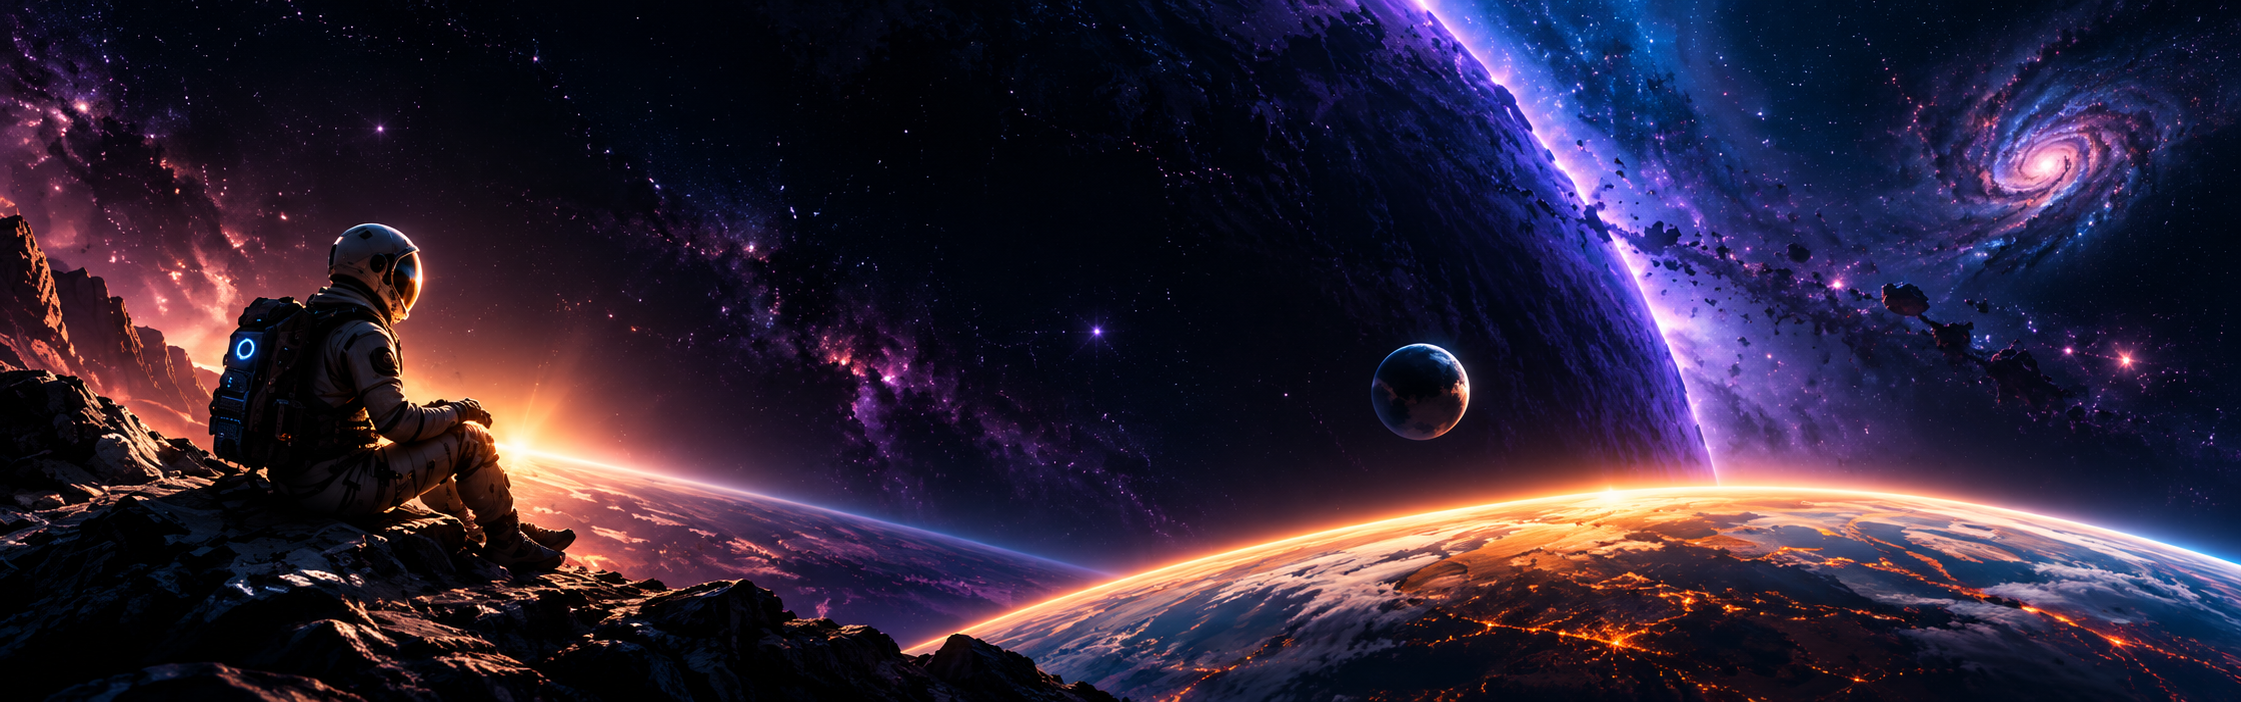
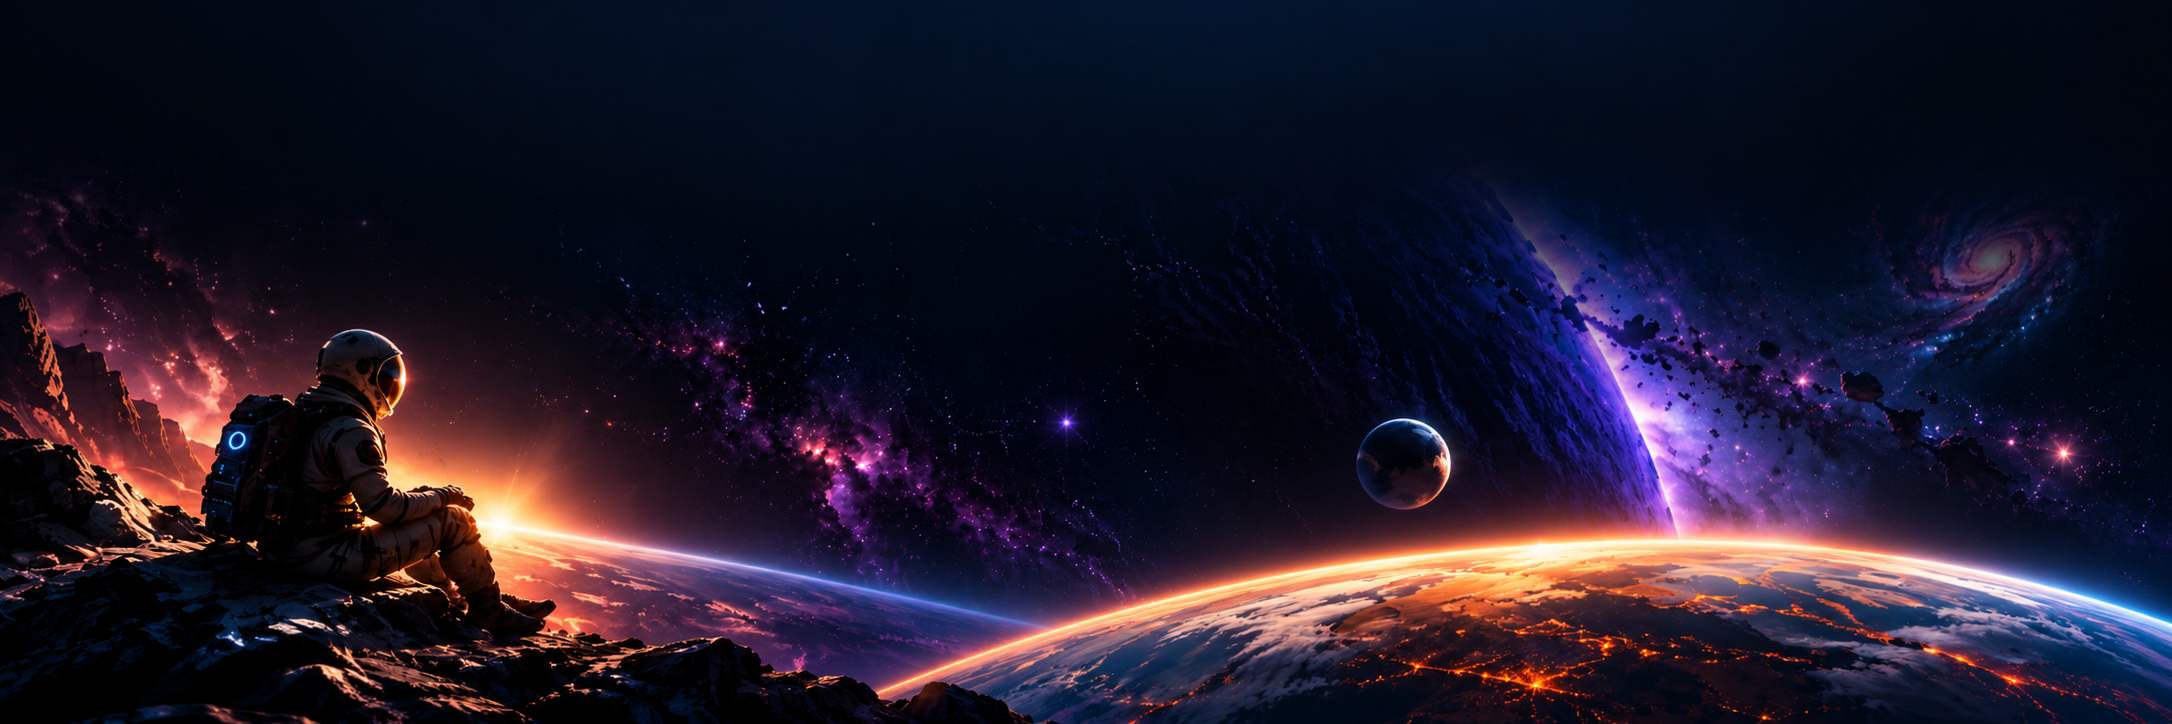
fixing colors in moviesGenresSection

diff --git a/sass/components/_moviesGenres.scss b/sass/components/_moviesGenres.scss
@@ -185,7 +185,7 @@ $horror: #ff382f;
             gap: 20px;
             overflow-x: auto;
             scrollbar-width: none;
-            padding: 28px;
+            padding: 50px;
             padding-left: 15px;
             .movie {
               position: relative;
@@ -348,6 +348,112 @@ $horror: #ff382f;
             }
             &.next {
               right: 6px;
+            }
+          }
+        }
+      }
+
+      &.genre-movies {
+        --Color: #ffc247;
+        .head {
+          .left {
+            .title {
+              span {
+                color: var(--Color);
+              }
+            }
+          }
+          .line {
+            background: var(--Color);
+            box-shadow: 0 0 10px var(--Color);
+          }
+        }
+
+        .body {
+          .wrap {
+            .movies {
+              .movie {
+                .movie-inner {
+                  .face {
+                    .genres {
+                      color: color-mix(in oklab, var(--Color) 50%, white);
+                    }
+                    .overview {
+                      color: #c3cfe3;
+                    }
+                    .year {
+                      color: #8a9bb5;
+                    }
+                    &.front {
+                      .info {
+                        background: linear-gradient(transparent, color-mix(in srgb, var(--Color) 40%, transparent) 25%);
+                      }
+                    }
+                    &.back {
+                      background:
+                        radial-gradient(circle at 100% 0, color-mix(in srgb, var(--Color) 35%, transparent), transparent 60%),
+                        linear-gradient(160deg, color-mix(in srgb, var(--Color) 30%, #0e1a3a), color-mix(in srgb, var(--Color) 10%, #050816));
+                      .view-detailes {
+                        background:
+                          radial-gradient(120% 90% at 100% 0%, color-mix(in oklab, var(--Color) 20%, transparent), transparent 60%),
+                          linear-gradient(
+                            135deg,
+                            color-mix(in oklab, var(--Color) 18%, rgba(12, 28, 49, 0.96)),
+                            color-mix(in oklab, var(--Color) 5%, rgba(7, 12, 28, 0.98))
+                          );
+                        border: 1px solid color-mix(in oklab, var(--Color) 50%, transparent);
+                        box-shadow:
+                          0 3px 12px rgba(0, 0, 0, 0.25),
+                          0 0 16px color-mix(in oklab, var(--Color) 20%, transparent),
+                          inset 0 1px 0 color-mix(in oklab, var(--Color) 25%, rgba(255, 255, 255, 0.05));
+                        i {
+                          color: var(--Color);
+                        }
+
+                        &:hover {
+                          background:
+                            radial-gradient(120% 90% at 100% 0%, color-mix(in oklab, var(--Color) 35%, transparent), transparent 65%),
+                            linear-gradient(
+                              135deg,
+                              color-mix(in oklab, var(--Color) 30%, rgba(13, 51, 78, 0.98)),
+                              color-mix(in oklab, var(--Color) 10%, rgba(13, 25, 50, 0.98))
+                            );
+                          border-color: color-mix(in oklab, var(--Color) 90%, transparent);
+                          box-shadow:
+                            0 5px 18px rgba(0, 0, 0, 0.3),
+                            0 0 22px color-mix(in oklab, var(--Color) 35%, transparent),
+                            inset 0 0 14px color-mix(in oklab, var(--Color) 12%, transparent);
+                          i {
+                            color: color-mix(in oklab, var(--Color) 80%, transparent);
+                          }
+                        }
+                      }
+                    }
+                  }
+                }
+                &:hover {
+                  .movie-inner {
+                    .face {
+                      border-color: color-mix(in oklab, var(--Color) 80%, transparent);
+                      box-shadow:
+                        0 14px 30px #00000099,
+                        0 0 22px color-mix(in oklab, var(--Color) 40%, transparent),
+                        0 0 48px color-mix(in oklab, var(--Color) 15%, transparent);
+                    }
+                  }
+                }
+              }
+            }
+            .arrow {
+              border: 1px solid var(--Color);
+              border-radius: 50%;
+              background: #050816;
+              color: var(--Color);
+              &:hover {
+                background: var(--Color);
+                color: #050816;
+                box-shadow: 0 0 16px var(--Color);
+              }
             }
           }
         }

diff --git a/css/index.css b/css/index.css
@@ -5849,7 +5849,7 @@ header#Explore .content .planet:hover {
   gap: 20px;
   overflow-x: auto;
   scrollbar-width: none;
-  padding: 28px;
+  padding: 50px;
   padding-left: 15px;
 }
 #Movies .content .movies-section .body .wrap .movies .movie {
@@ -6021,6 +6021,62 @@ header#Explore .content .planet:hover {
 }
 #Movies .content .movies-section .body .wrap .arrow.next {
   right: 6px;
+}
+#Movies .content .movies-section.genre-movies {
+  --Color: #ffc247;
+}
+#Movies .content .movies-section.genre-movies .head .left .title span {
+  color: var(--Color);
+}
+#Movies .content .movies-section.genre-movies .head .line {
+  background: var(--Color);
+  box-shadow: 0 0 10px var(--Color);
+}
+#Movies .content .movies-section.genre-movies .body .wrap .movies .movie .movie-inner .face .genres {
+  color: color-mix(in oklab, var(--Color) 50%, white);
+}
+#Movies .content .movies-section.genre-movies .body .wrap .movies .movie .movie-inner .face .overview {
+  color: #c3cfe3;
+}
+#Movies .content .movies-section.genre-movies .body .wrap .movies .movie .movie-inner .face .year {
+  color: #8a9bb5;
+}
+#Movies .content .movies-section.genre-movies .body .wrap .movies .movie .movie-inner .face.front .info {
+  background: linear-gradient(transparent, color-mix(in srgb, var(--Color) 40%, transparent) 25%);
+}
+#Movies .content .movies-section.genre-movies .body .wrap .movies .movie .movie-inner .face.back {
+  background: radial-gradient(circle at 100% 0, color-mix(in srgb, var(--Color) 35%, transparent), transparent 60%), linear-gradient(160deg, color-mix(in srgb, var(--Color) 30%, #0e1a3a), color-mix(in srgb, var(--Color) 10%, #050816));
+}
+#Movies .content .movies-section.genre-movies .body .wrap .movies .movie .movie-inner .face.back .view-detailes {
+  background: radial-gradient(120% 90% at 100% 0%, color-mix(in oklab, var(--Color) 20%, transparent), transparent 60%), linear-gradient(135deg, color-mix(in oklab, var(--Color) 18%, rgba(12, 28, 49, 0.96)), color-mix(in oklab, var(--Color) 5%, rgba(7, 12, 28, 0.98)));
+  border: 1px solid color-mix(in oklab, var(--Color) 50%, transparent);
+  box-shadow: 0 3px 12px rgba(0, 0, 0, 0.25), 0 0 16px color-mix(in oklab, var(--Color) 20%, transparent), inset 0 1px 0 color-mix(in oklab, var(--Color) 25%, rgba(255, 255, 255, 0.05));
+}
+#Movies .content .movies-section.genre-movies .body .wrap .movies .movie .movie-inner .face.back .view-detailes i {
+  color: var(--Color);
+}
+#Movies .content .movies-section.genre-movies .body .wrap .movies .movie .movie-inner .face.back .view-detailes:hover {
+  background: radial-gradient(120% 90% at 100% 0%, color-mix(in oklab, var(--Color) 35%, transparent), transparent 65%), linear-gradient(135deg, color-mix(in oklab, var(--Color) 30%, rgba(13, 51, 78, 0.98)), color-mix(in oklab, var(--Color) 10%, rgba(13, 25, 50, 0.98)));
+  border-color: color-mix(in oklab, var(--Color) 90%, transparent);
+  box-shadow: 0 5px 18px rgba(0, 0, 0, 0.3), 0 0 22px color-mix(in oklab, var(--Color) 35%, transparent), inset 0 0 14px color-mix(in oklab, var(--Color) 12%, transparent);
+}
+#Movies .content .movies-section.genre-movies .body .wrap .movies .movie .movie-inner .face.back .view-detailes:hover i {
+  color: color-mix(in oklab, var(--Color) 80%, transparent);
+}
+#Movies .content .movies-section.genre-movies .body .wrap .movies .movie:hover .movie-inner .face {
+  border-color: color-mix(in oklab, var(--Color) 80%, transparent);
+  box-shadow: 0 14px 30px rgba(0, 0, 0, 0.6), 0 0 22px color-mix(in oklab, var(--Color) 40%, transparent), 0 0 48px color-mix(in oklab, var(--Color) 15%, transparent);
+}
+#Movies .content .movies-section.genre-movies .body .wrap .arrow {
+  border: 1px solid var(--Color);
+  border-radius: 50%;
+  background: #050816;
+  color: var(--Color);
+}
+#Movies .content .movies-section.genre-movies .body .wrap .arrow:hover {
+  background: var(--Color);
+  color: #050816;
+  box-shadow: 0 0 16px var(--Color);
 }
 
 /*# sourceMappingURL=index.css.map */

diff --git a/js/pages/explore.js b/js/pages/explore.js
@@ -4,8 +4,8 @@ let planets = planetsContainer.querySelectorAll(".planet"),
   topMoviesContent = moviesSection.querySelector(".content .movies-section.top-rated-movies .body .movies"),
   genreMoviesContet = moviesSection.querySelector(".content .movies-section.genre-movies"),
   genre = genreMoviesContet.closest(".content").dataset.genre,
-  prevBtn = moviesSection.querySelector(".content .prev");
-nextBtn = moviesSection.querySelector(".content .next");
+  prevBtn = moviesSection.querySelector(".content .prev"),
+  nextBtn = moviesSection.querySelector(".content .next");
 function changePlanet(planet) {
   let activePlanet = planetsContainer.querySelector(".planet.active");
 
@@ -17,7 +17,7 @@ function changePlanet(planet) {
   planet.classList.add("active");
   setTimeout(() => {
     moviesSection.scrollIntoView({
-      top: moviesSection.clientHeight(),
+      top: moviesSection.clientHeight,
       behavior: "smooth",
     });
   }, 1000);
@@ -63,6 +63,7 @@ async function showTopMoviesExplore() {
 }
 
 async function showGenreMoviesExplore(genre = "action") {
+  changeColor(genre);
   if (genre == "horror") {
     genreMoviesContet.innerHTML = `
         <div class="head">
@@ -105,8 +106,8 @@ async function showGenreMoviesExplore(genre = "action") {
                     <img src="../images/moviesPageIcons/${genre.toLocaleLowerCase()}.png" class="img-fluid" alt="${genre} Icon" />
                   </div>
                   <div class="text">
-                    <h4><span>${genre}</span></h4>
-                    <p class="mb-0">The highest rated movies</p>
+                    <h4><span>${genre.toUpperCase()}</span></h4>
+                    <p class="mb-0">The highest rated ${genre} movies</p>
                   </div>
                 </div>
               </div>
@@ -142,7 +143,7 @@ async function showGenreMoviesExplore(genre = "action") {
                       <div class="face back">
                         <p class="rate">${movie.vote_average} <i class="fa-solid fa-star"></i></p>
                         <h3>${movie.title}</h3>
-                        <p class="genres"><i class="fa-regular fa-clock"></i> ${movie.runtime}m &nbsp; ${movie.genres[0]} &nbsp; ${movie.year}</p>
+                        <p class="genres"><i class="fa-regular fa-clock"></i> ${movie.runtime}m &nbsp; ${genre} &nbsp; ${movie.year}</p>
                         <p class="overview">
                           ${movie.overview.slice(0, 120)}...
                         </p>
@@ -165,7 +166,35 @@ function toggleScrollCards(dire, that) {
     behavior: "smooth",
   });
 }
+function changeColor(genre) {
+  let color = "";
 
+  if (genre === "action") {
+    color = "#ff4b2b";
+  } else if (genre === "adventure") {
+    color = "#26d6a0";
+  } else if (genre === "animation") {
+    color = "#ff9a35";
+  } else if (genre === "comedy") {
+    color = "#ffd166";
+  } else if (genre === "crime") {
+    color = "#ff3e52";
+  } else if (genre === "documentary") {
+    color = "#38bdf8";
+  } else if (genre === "drama") {
+    color = "#e8a24a";
+  } else if (genre === "family") {
+    color = "#f6b94a";
+  } else if (genre === "fantasy") {
+    color = "#d45bff";
+  } else if (genre === "horror") {
+    color = "#ff382f";
+  } else {
+    color = "#2b4a6f";
+  }
+
+  genreMoviesContet.style.setProperty("--Color", color);
+}
 showGenreMoviesExplore();
 showTopMoviesExplore();
 setHeaderPadding();

diff --git a/sass/components/_footer.scss b/sass/components/_footer.scss
@@ -292,9 +292,9 @@ footer {
 
       @include responsive(1050) {
         max-width: initial;
-        img{
-            max-width: initial ;
-            width: 100px ;
+        img {
+          max-width: initial;
+          width: 100px;
         }
       }
     }
